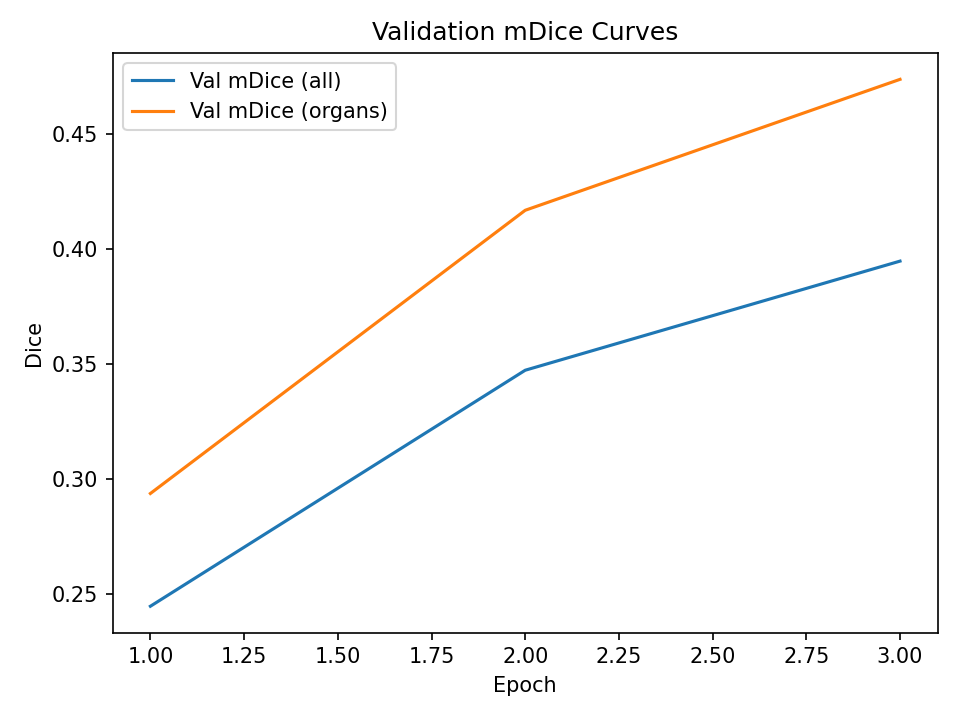
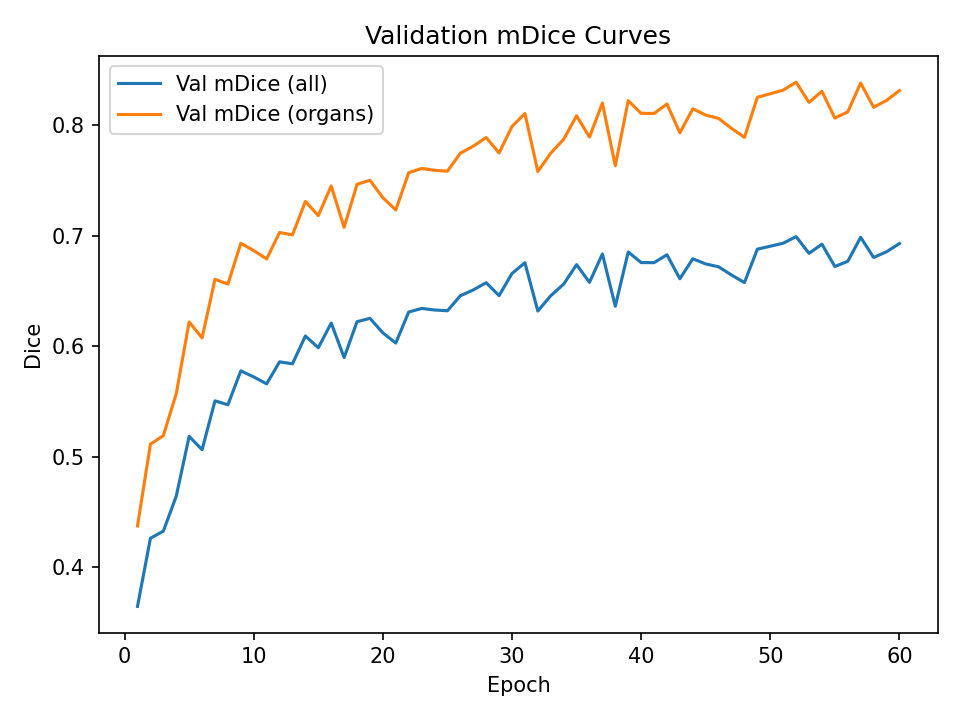
result 1 dice 0.7901

diff --git a/recognition/prostate3d_Luyi_Ying_48360591/train.py b/recognition/prostate3d_Luyi_Ying_48360591/train.py
@@ -25,7 +25,7 @@ python recognition\prostate3d_Luyi_Ying_48360591\train.py `
   --amp
 
   base: 8/16
-  
+  patch: 64/80/96
 python recognition\prostate3d_Luyi_Ying_48360591\train.py `
   --data_root "D:\document\UQ\4COMP3710\A3\data" `
   --epochs 30 --batch_size 1 `
@@ -259,7 +259,7 @@ def main(args):
     best_mdice = 0.0
     outdir = Path("runs"); outdir.mkdir(exist_ok=True)
     ckpt_path = outdir / "best.ckpt"
-    pics_dir = Path(r"D:\document\UQ\4COMP3710\A3\PatternAnalysis-2025\recognition\prostate3d_Luyi_Ying_48360591\pics")
+    pics_dir = Path("pics")
     pics_dir.mkdir(parents=True, exist_ok=True)
 
     # 日志容器：记录每个 epoch 的训练损失与验证 Dice

diff --git a/recognition/prostate3d_Luyi_Ying_48360591/README.md b/recognition/prostate3d_Luyi_Ying_48360591/README.md
@@ -1,4 +1,4 @@
-# Prostate 3D Segmentation (Normal → Hard)
+# Prostate 3D Segmentation (Normal)
 
 ## Overview
 Segment (downsampled) Prostate 3D dataset with a 3D UNet baseline (Normal) aiming for per-class Dice ≥ 0.70 on test set; optionally upgrade to Improved UNet3D (Hard).
@@ -29,7 +29,7 @@ pip install nibabel numpy scikit-image matplotlib torchio
 * Driver Version: 527.41 
 * CUDA Version: 12.0 2G
 
-note: use patch for run in GPU with low storage
+note: use patch for run in GPU with low storage. you can use larger patch by supported GPU
 ## data
 `semantic_MRs_anon/` -  3D MRI volumetric images, X
 
@@ -50,12 +50,56 @@ note: use patch for run in GPU with low storage
   * 5: prostate（0.10%）
 * num_classes=6
 ## result:
-Results on Test Set
+Results by test instruction 2(run around 2 hours):
+| Channel | Class | Dice Coefficient |
+|---------|-------|------------------|
+| 0 | Background | 0.9797 |
+| 1 | body | 0.9382 |
+| 2 | bone | 0.8142 |
+| 3 | bladder | 0.7583 |
+| 4 | rectum | 0.5327 |
+| 5 | prostate | 0.7176 |
+
+**Mean Dice Coefficient**: 0.7901
+
 ## Testing Instructions
+* 1. on local
+```
+python {train_script}
+   --data_root "D:\document\UQ\4COMP3710\A3\data" `
+   --epochs 3 --batch_size 1 `
+   --base 8 `
+   --patch 64 64 64 `
+   --accum 1 `
+   --lr 1e-3 `
+   --fullval_every 1 `
+   --val_patch 64 64 64 --val_overlap 32 `
+   --amp
+```
+
+* 2. on google lab
+
+```
+python {train_script} \\
+  --data_root "{data_root_colab}" \\
+  --epochs 60 --batch_size 1 \\
+  --base 16 \\
+  --patch 64 64 64 \\
+  --accum 1 \\
+  --lr 1e-3 \\
+  --fullval_every 1 \\
+  --val_patch 64 64 64 --val_overlap 32 \\
+  --amp
+```
 ## code:
 ### `dataset.py`
 Find the correct file, match the image with the label, normalize the ID, split the data, read the NIfTI, perform normalization, and return the standard tensor.
-return  {"id", "image", "label", "affine"}
+
+
+**input**: --data_root
+
+**return**:  {"id", "image", "label", "affine"}
+
 * import
   * `nibabel`：Reading and writing NIfTI (.nii/.nii.gz) medical 3D volume data
   * `torch.utils.data.Dataset`: Custom PyTorch Dataset Base Class
@@ -95,10 +139,13 @@ In each epoch, only one random patch is taken from each sample. In the next epoc
 **improved 3**
   * Add category weights to CE
   * Dice is excluded from the background, and small organs are given greater weight.
-  * Corrected "Union sampling" → "Class-based equalization sampling"
+  * Corrected "Union sampling" → "Class-based equalization sampling" :random_crop_3d_balanced
+  
 **improved 4**
 * Sliding window inference weighted fusion (resolving gaps/joining false negatives)
 * Automatically calculate category weights
+* Lightweight enhancement: Three-axis random flip + slight intensity perturbation (brightness/contrast + micro-noise), then clamp to [-5,5] to increase robustness without disrupting the medical grayscale distribution.
+* loss function: loss = 0.7*CE + 0.3*Dice
 
 **visualize**:
 * training_losses.png
